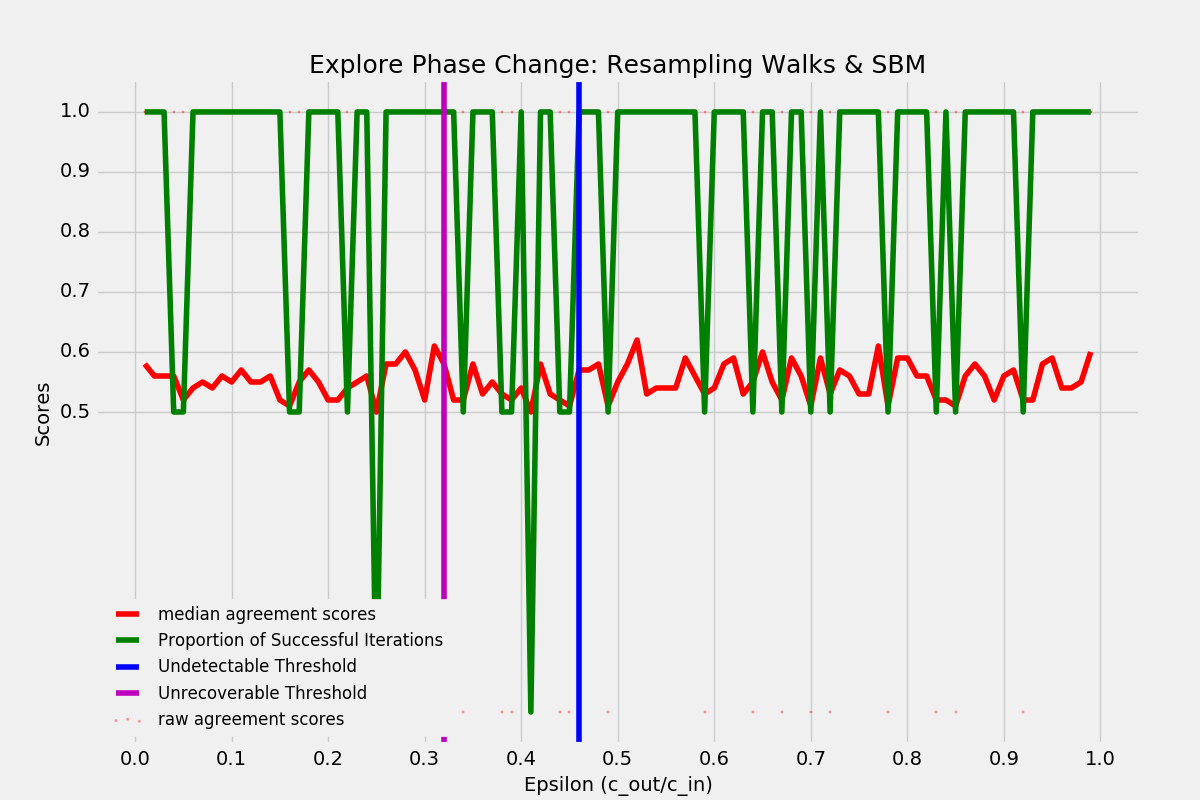
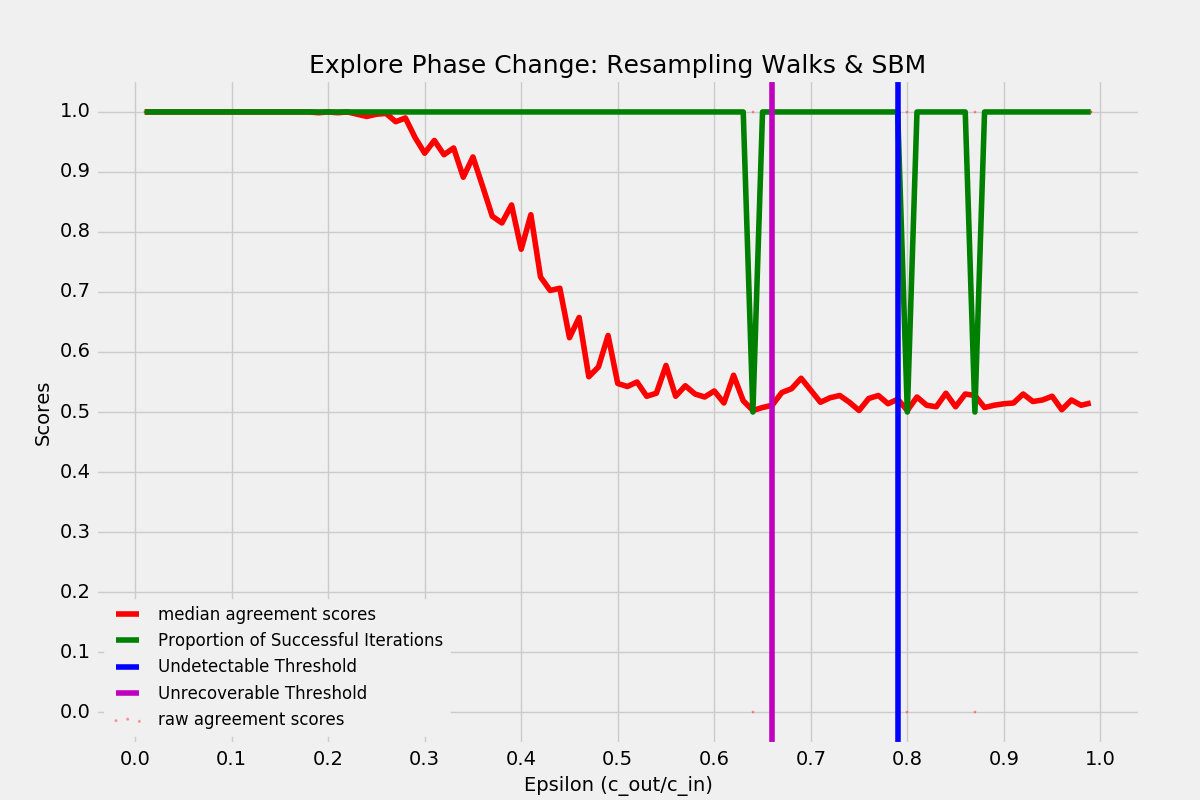
start running

Changed region(s): [[0.1233, 0.0938, 0.925, 0.9375], [0.0617, 0.875, 0.0925, 0.9062]]

diff --git a/main/generate_phase_change_plots.py b/main/generate_phase_change_plots.py
@@ -23,7 +23,7 @@ def main():
             in_class_prob = in_class_prob
             # out_class_prob = 0.6
             iterations = 1
-            samples = 2
+            samples = 20
             p = 1.0
             q = 1.0
             # for saving purposes
